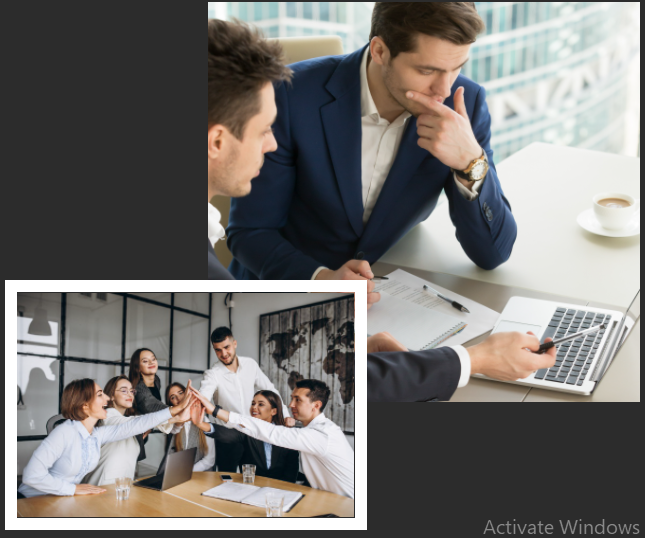
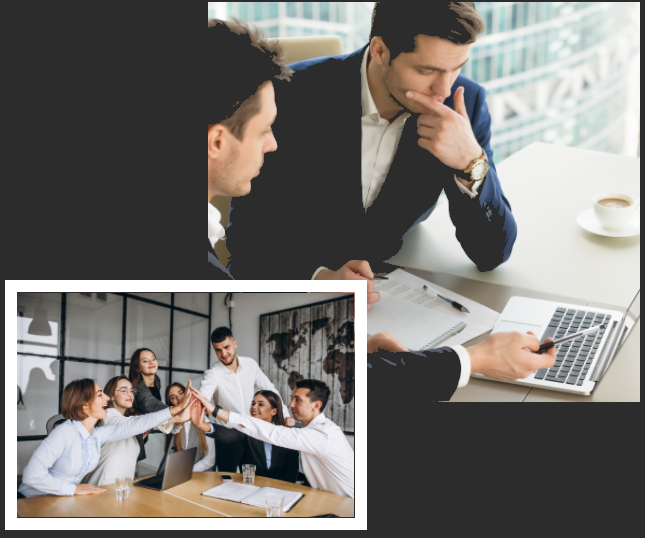
adding sections in single-service-page

diff --git a/src/scss/main.css b/src/scss/main.css
@@ -1924,4 +1924,51 @@ input:focus {
 .offer .offer-range .offer-width {
   height: 4px;
 }
+
+.single-service-banner h2 {
+  font-size: 48px !important;
+  line-height: 48px;
+}
+
+.service-box1 img {
+  height: 100%;
+  width: 100%;
+  -webkit-box-shadow: inset 0 0 0 1pc;
+          box-shadow: inset 0 0 0 1pc;
+  padding: 1pc;
+  border: 2px dotted;
+  -webkit-animation: border-transform 7s linear infinite alternate forwards;
+          animation: border-transform 7s linear infinite alternate forwards;
+}
+
+.service-box1 .title-section h4 {
+  margin: 0pc 0 10px !important;
+  font-size: 30px;
+}
+
+.service-box1 p {
+  color: gray;
+  font-size: 15px;
+}
+
+.service-box2 {
+  padding: 4pc 0;
+}
+
+.service-box2:before {
+  background: #00bea35c;
+  height: 100%;
+  width: 60%;
+  left: 0;
+  top: 0;
+  content: '';
+  position: absolute;
+}
+
+.service-box2 img {
+  -webkit-animation-play-state: paused;
+          animation-play-state: paused;
+  -webkit-box-shadow: none;
+          box-shadow: none;
+}
 /*# sourceMappingURL=main.css.map */

diff --git a/src/scss/_style.scss b/src/scss/_style.scss
@@ -1368,3 +1368,44 @@ input:focus {
         }
     }
 }
+
+.single-service-banner h2 {
+    font-size: 48px !important;
+    line-height: 48px;
+}
+
+.service-box1 {
+    img {
+        height: 100%;
+        width: 100%;
+        box-shadow: inset 0 0 0 1pc;
+        padding: 1pc;
+        border: 2px dotted;
+        animation: border-transform 7s linear infinite alternate forwards;
+    }
+    .title-section h4 {
+        margin: 0pc 0 10px !important;
+        font-size: 30px;
+    }
+    p {
+        color: gray;
+        font-size: 15px;
+    }
+}
+
+.service-box2 {
+    padding: 4pc 0;
+    &:before {
+        background: #00bea35c;
+        height: 100%;
+        width: 60%;
+        left: 0;
+        top: 0;
+        content: '';
+        position: absolute;
+    }
+    img {
+        animation-play-state: paused;
+        box-shadow: none;
+    }
+}

diff --git a/single-service.php b/single-service.php
@@ -1,0 +1,62 @@
+<?php include("header.php");?>
+
+<main>
+    <section class="page-banner heading mb-80 single-service-banner">
+        <div class="container">
+            <div class="page-absolute">
+                <p>Welcome to our company</p>
+                <h2>Get to know us,<br>get to work with us</h2>
+                <ul>
+                    <li><a href="index.php">Home</a></li>
+                    <li>Web Designing</li>
+                </ul>
+            </div>
+        </div>
+    </section>
+
+    <section class="service-box1 mb-80">
+        <div class="container">
+            <div class="row align-items-center">
+                <div class="col-12 col-md-6 col-adjust pl-0">
+                    <div class="service-box1-content">
+                        <div class="title-section">
+                            <h4 class='text-left'>Web Development Company In India...</h4>
+                        </div>
+                        <p>A website represents your company; it’s essence and core values. It is one of the most powerful tools to realize your goals. It is the first impression on your clients and a communication gateway for them. A website is an impactful way to enhance the brand identity of your company, bring increased sale and expand your business.</p>
+                        <p>At Ebslon, we recognize, well in advance, the trends, updates and paradigm shifts happening in the web-designing world. We realize the significance of website design and the way it is unique to a particular company. Companies now need a relevant design that showcases their companies in a presentable and evocative way. They need a well navigable, customized web-design that generates an interactive user experience and the one that is digitally compatible with multiple devices. Our bouquet of website design services includes but not limited to websites, apps, social media identities and other digital decks.</p>
+                    </div>
+                </div>
+                <div class="col-12 col-md-6 col-adjust pr-0">
+                    <img src="src/images/8.jpg" alt="web-design">
+                </div>
+            </div>
+            <p>Our expert team across various segments follow a stylized process to create appropriate, responsive web-designs with strategic inputs, insights, and infusion of ideas. They analyze your business portfolio; understand the business’ requirements, the market, and the end consumer before creating a web-design.</p>
+            <p>We strive for offering you an “engineered” web-design, unique to your company that would surely generate bigger brand engagement, higher lead conversions & bring measurable overall results.Our websites are Enticing, Engaging and Engineered for your business’ only.</p>
+        </div>
+    </section>
+
+    <section class="service-box1 service-box2 mb-80 position-relative">
+        <div class="container">
+            <div class="row align-items-center">
+                <div class="col-12 col-md-6 col-adjust pl-0">
+                    <img src="src/images/4.jpg" alt="web-design" class='rounded-0 border-0 p-0'>
+                </div>
+                <div class="col-12 col-md-6 col-adjust pr-0">
+                    <div class="service-box1-content">
+                        <div class="title-section">
+                            <h4 class='text-left'>UI+UX Designs</h4>
+                        </div>
+                        <p>We deliver User Interface designs for websites that enable a user to maximize usability and the user experience. Our user-centered designs make the user’s interaction pretty simple, efficient and effective. Our UI+UX Designs ensures an easy navigation & interaction that enables a user to have uninterrupted access to all parts of the website and goes through all the data and information that our clients wish to share.</p>
+                        <div class="title-section">
+                            <h4 class='text-left'>Responsive Designs</h4>
+                        </div>
+                        <p class='m-0'>Different companies have unique approaches to reach out to their clients. They make every effort to tap on their user’s behavior and environment which fluctuate as per the on screen size, platform, and orientation. Thus the requirements of different digital platforms vary. Realising this, we provide responsive web design that is compatible with all devices and exhibit enchanting appearance across all platforms. We design for ALL USERS without compromising the essence of your website content.</p>
+                    </div>
+                </div>
+            </div>
+        </div>
+    </section>
+
+</main>
+
+<?php include("footer.php");?>
